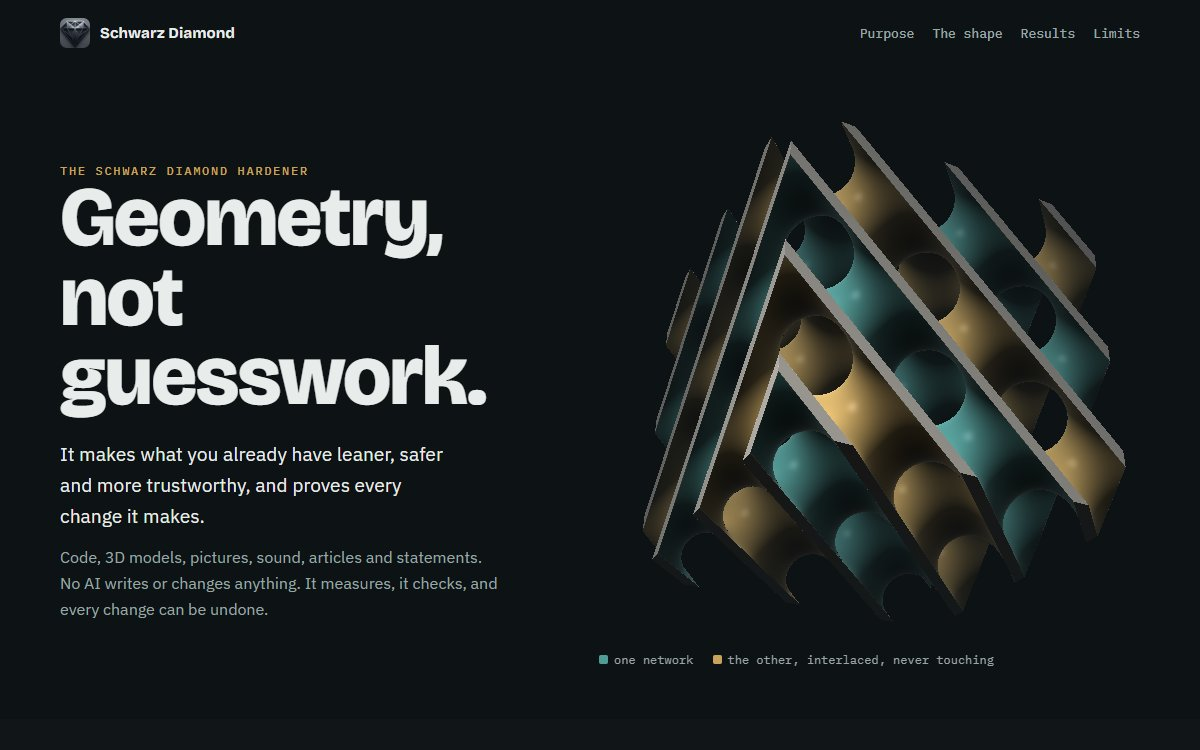
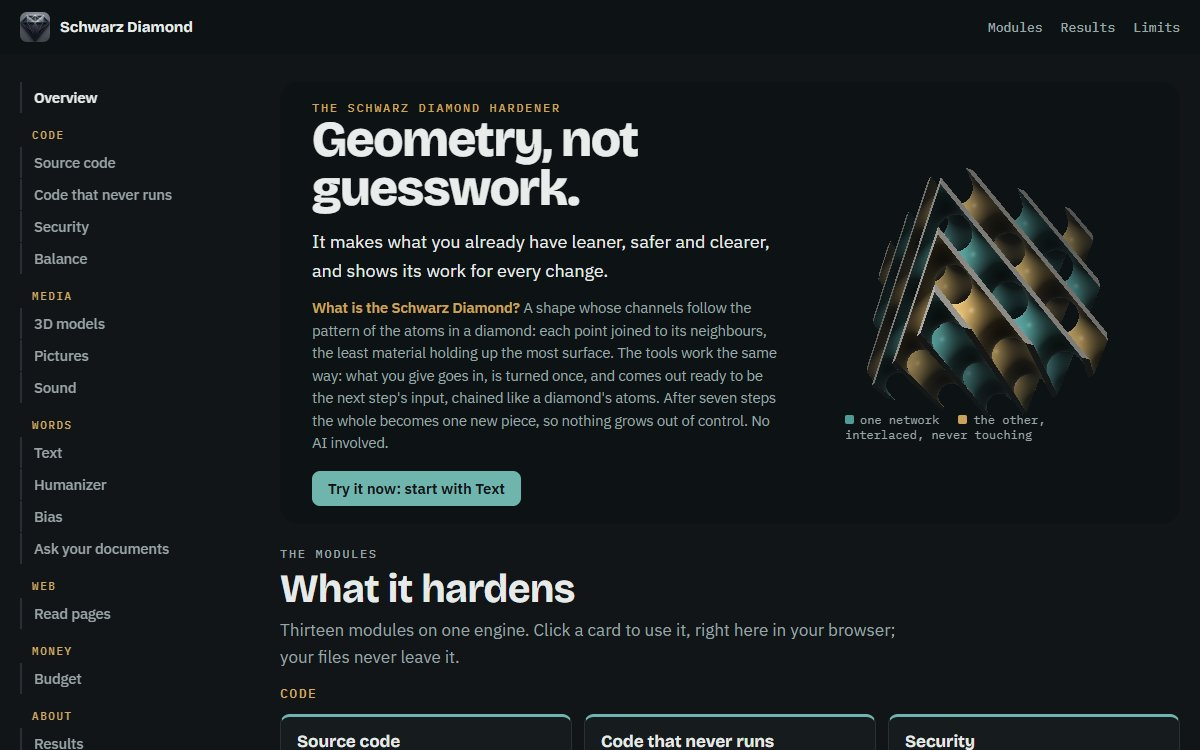
Portfolio: Schwarz Diamond case study, updated card, resume entry
A case-study page in the same shape as the others (problem, what it does, who
did what, how it was kept honest, why it matters to an employer, technologies,
what it does not claim), using only results measured this week. The front-page
card is rewritten for the working site and links to the case study; the resume
page lists the project; the sitemap includes the new page.

diff --git a/public/work/schwarzdiamond.html b/public/work/schwarzdiamond.html
@@ -1,0 +1,158 @@
+<!DOCTYPE html>
+<html lang="en">
+<head>
+<meta charset="UTF-8">
+<meta name="viewport" content="width=device-width, initial-scale=1.0">
+<title>Schwarz Diamond · AI-style tools that run by rule, in your browser · Kenneth W. Bingham</title>
+<meta name="description" content="Schwarz Diamond: thirteen tools that do AI-style work by rule instead of AI, in the visitor's own browser. Bank statement PDFs checked against the bank's own totals, a humanizer that never changes a fact, photo cleaning with pixel-identical proof. Directed by Kenneth W. Bingham, built with AI.">
+<meta name="robots" content="index, follow">
+<link rel="canonical" href="https://butterflyfx.us/work/schwarzdiamond.html">
+<link rel="icon" href="/assets/butterfly.png">
+<link rel="stylesheet" href="/site.css">
+<meta property="og:type" content="article">
+<meta property="og:url" content="https://butterflyfx.us/work/schwarzdiamond.html">
+<meta property="og:title" content="Schwarz Diamond · AI-style tools that run by rule, in your browser">
+<meta property="og:image" content="https://butterflyfx.us/img/work/schwarzdiamond.jpg">
+<meta property="og:description" content="Tools that measure and check instead of predicting: statements read to the cent, text humanized without changing a fact, nothing uploaded.">
+</head>
+<body>
+
+<header class="masthead">
+  <div class="wrap">
+    <a class="brand" href="/">Kenneth&nbsp;W.&nbsp;Bingham</a>
+    <nav>
+      <a href="/">Home</a>
+      <a href="/#work">Work</a>
+      <a href="/resume.html">Resume</a>
+      <a href="/contact.html">Contact</a>
+      <a href="https://github.com/kenbin64" rel="noopener">GitHub</a>
+    </nav>
+  </div>
+</header>
+
+<section class="hero">
+  <div class="wrap">
+    <p class="kicker">case study · tools without AI · live and free to use</p>
+    <h1>AI-style tools that measure instead of guess.</h1>
+    <p class="lede">
+      <b>Schwarz Diamond</b> is a set of thirteen tools that do the kind of work people now hand to AI: read a bank
+      statement, make AI-written text sound natural, answer questions from your documents, clean a photo before you
+      post it. They work by rule instead, run in the visitor's own browser, and show their work. I designed it and
+      made every decision; an AI wrote the code and tests to my standards.
+    </p>
+    <div class="btn-row">
+      <a class="btn" href="https://schwarzdiamond.com/" rel="noopener">Open it</a>
+      <a class="btn ghost" href="https://schwarzdiamond.com/#m-budget" rel="noopener">Try the statement reader</a>
+    </div>
+  </div>
+</section>
+
+<section>
+  <div class="wrap narrow">
+    <h2>The problem</h2>
+    <p>
+      The tools people reach for to sort out a bank statement, polish a draft or answer questions about a document
+      increasingly mean uploading the file to someone's server, and an answer that can change from one try to the
+      next. For a bank statement, a draft or a family photo, many people would rather not do either. A lot of this
+      work does not need a prediction at all: it needs careful measurement, and a check that the result is right.
+    </p>
+
+    <h2>What it does</h2>
+    <ul>
+      <li><b>Bank statements:</b> reads the PDF your bank gives you (or a CSV), finds merchants charged many times,
+          subscriptions billed twice, money in and out of advance and pay-later apps, payments returned unpaid and
+          fees, and keeps moves between your own accounts apart. It then checks what it read against the
+          statement's own printed totals, to the cent, and says so if they ever differ.</li>
+      <li><b>Humanizer:</b> takes text an AI wrote and makes it read like a person wrote it: plain words for stock
+          phrasing, empty lead-ins removed, contractions used, long sentences split. Every number, name and
+          quotation is counted before and after, and a rewrite that would change one is held back.</li>
+      <li><b>Pictures and sound:</b> removes what rides along in a file (where a photo was taken, the software,
+          comments), then decodes both versions and confirms every pixel, or every sample, is identical.</li>
+      <li><b>And more:</b> questions answered from your own documents with the source line (or "your documents do
+          not say"), coverage of one event split into sides with what all sides agree on, a code checker that proves
+          runaway patterns by timing them, and text fixes and word-for-word summaries.</li>
+    </ul>
+
+    <h2>Who did what</h2>
+    <ul>
+      <li><b>Me:</b> the concept and every decision: the design rules (input, transform, output; each part knowing only
+          its neighbours; the work built in a fixed sequence of steps), which tools to build and for whom, what each
+          one may and may not change, and the call to show results people can check rather than claim them.</li>
+      <li><b>The AI (Claude, in VS Code):</b> the code, the tests and the site, under written standards, with a plain
+          report of what it checked and what it did not.</li>
+    </ul>
+
+    <h2>How the work was kept honest</h2>
+    <ul>
+      <li><b>Tests that try to break it:</b> 95 hostile edge cases (empty input, huge files, emoji, damaged and
+          wrong-type files, malformed statements) and 6,000 randomized texts in which no number, name or quotation was
+          ever changed.</li>
+      <li><b>Testing found real bugs, and each is now guarded by a test:</b> one step took 90 seconds on a large
+          document and now takes a tenth of a second; four inputs that crashed now get plain messages.</li>
+      <li><b>Proved, not guessed:</b> the code checker times each risky pattern on longer and longer input; on patterns
+          shaped like real published advisories it flags the three that truly run away and none of the four
+          look-alikes, and it raised no false alarm on 606 files from widely used packages.</li>
+      <li><b>Real data:</b> the statement reader was tested on a real bank statement and matched its totals exactly,
+          without the statement leaving the computer or entering any repository.</li>
+      <li><b>Checkable privacy:</b> a recorded network audit shows the page sends nothing while the tools run; the site
+          invites visitors to watch their browser's network panel and see the same.</li>
+    </ul>
+
+    <h2>Why it matters to an employer</h2>
+    <ul>
+      <li><b>AI-assisted development done properly:</b> fast output from the AI, with direction, standards and checks
+          from a person.</li>
+      <li><b>Product judgment:</b> tested with real data, which exposed that the first version could not read the files
+          banks actually hand out; that changed the design.</li>
+      <li><b>Evidence over assertion:</b> results that verify themselves, honest limits, and no claims a visitor cannot
+          check.</li>
+      <li><b>Privacy by design:</b> no accounts, no uploads, no stored data; the work happens on the visitor's device.</li>
+    </ul>
+
+    <h2>Technologies and skills</h2>
+    <ul>
+      <li><b>JavaScript</b> (ES modules) shared between a desktop app and the website, packed for the browser with
+          <b>esbuild</b>; the same tested code runs in both.</li>
+      <li><b>pdf.js</b> for reading statements by position on the page; <b>Web Workers</b> for timing patterns
+          safely; an <b>abstract syntax tree</b> parser (acorn) for reading code.</li>
+      <li><b>WebGL:</b> the hero image is the Schwarz Diamond surface drawn live from its equation.</li>
+      <li><b>Cloudflare</b> hosting with a custom domain; <b>Node.js</b> test suites and headless-Chrome tests run
+          against the live site.</li>
+      <li><b>AI-assisted engineering</b> with Claude Code in VS Code, under written standards.</li>
+    </ul>
+
+    <h2>What it does not claim</h2>
+    <ul>
+      <li>It is a portfolio piece and skills demonstration, not a commercial product: free, with no ads, no cookies
+          and no sign-in.</li>
+      <li>Rules cannot write new sentences: the humanizer rewrites less freely than an AI paraphraser, and the question
+          tool can miss an answer worded differently from the question.</li>
+      <li>The statement reader has been tested on one bank's layout so far. It points out patterns; it is not
+          financial advice.</li>
+    </ul>
+
+    <div class="metrics">
+      <div class="metric"><span class="n">13</span><span class="l">tools</span></div>
+      <div class="metric"><span class="n">95</span><span class="l">hostile edge cases</span></div>
+      <div class="metric"><span class="n">6,000</span><span class="l">randomized texts, 0 facts changed</span></div>
+      <div class="metric"><span class="n">0</span><span class="l">bytes sent while tools run</span></div>
+    </div>
+  </div>
+</section>
+
+<footer class="site">
+  <div class="wrap">
+    <p>
+      <a href="/">Home</a> &middot;
+      <a href="https://schwarzdiamond.com/" rel="noopener">Open Schwarz Diamond</a> &middot;
+      <a href="/resume.html">Resume</a> &middot;
+      <a href="/contact.html">Contact</a>
+    </p>
+    <p>Concept and direction: Kenneth W. Bingham. Built with the help of Claude AI under a standing directive to be
+      skeptical, to insist on proof, and to allow no claim that is not demonstrated in tested code. The ideas are the
+      author's; the AI implemented and verified them, it did not originate them.</p>
+  </div>
+</footer>
+
+</body>
+</html>

diff --git a/public/index.html b/public/index.html
@@ -117,14 +117,14 @@
       <article class="card" style="--k: #c9a35c">
         <img src="img/work/schwarzdiamond.jpg" alt="The Schwarz Diamond site: the headline Geometry, not guesswork, beside a block cut from the Schwarz Diamond surface in teal and brass" loading="lazy" width="1200" height="750">
         <div class="card-in">
-          <small>Product &middot; no AI &middot; runs on your own computer &middot; in private development</small>
-          <h3>Hardening files without AI: the Schwarz Diamond</h3>
+          <small>Product &middot; no AI &middot; runs in your browser &middot; live and free to use</small>
+          <h3>AI-style tools that measure instead of guess</h3>
           <dl>
-            <dt>The problem</dt><dd>Tools that check or clean files with AI can be confidently wrong, and usually send the files away. Many of those jobs need a measurement, not a prediction.</dd>
-            <dt>What I built</dt><dd>A local app with one engine and modules for code, 3D models, pictures, sound, text, news bias, questions over your own documents, security and budgets. It finds what is wasted, exposed, fragile or slanted, changes only what a check proves safe, and keeps a way back for every change.</dd>
-            <dt>The proof</dt><dd>On a finished game's 147 already-compressed models, 2.0 MB proven removable, each model redrawn from 6 angles with at most 0.31% of pixels moved. Code removals tested on copies of 3 projects, their test suites unchanged (31, 28 and 10 passing). Cleaned pictures and sound decode identical, pixel for pixel and sample for sample.</dd>
+            <dt>The problem</dt><dd>Sorting out a bank statement, polishing an AI draft or questioning a document now usually means uploading it, and getting an answer that can change from one try to the next.</dd>
+            <dt>What I built</dt><dd>Thirteen tools that do that work by rule, in the visitor's own browser. It reads the PDF statement your bank gives you, makes AI-written text read naturally without changing a fact, and cleans photos with pixel-identical proof.</dd>
+            <dt>The proof</dt><dd>The statement reader's totals match the bank's own to the cent, tested on a real statement. 95 hostile edge cases and 6,000 randomized texts, with no number, name or quotation changed. Zero data sent while the tools run.</dd>
           </dl>
-          <div class="links"><a href="https://schwarzdiamond.com/">Read about it</a></div>
+          <div class="links"><a href="https://schwarzdiamond.com/">Open it</a><a href="work/schwarzdiamond.html">Read the case study</a></div>
         </div>
       </article>
       <article class="card" style="--k: #2dd4bf">

diff --git a/public/resume.html b/public/resume.html
@@ -85,6 +85,7 @@
       <div class="job"><h3>citeline<small><a href="https://github.com/kenbin64/citeline">github.com/kenbin64/citeline</a></small></h3><ul><li>Retrieval-augmented generation over federal regulations with PostgreSQL, pgvector embeddings and FastAPI: answers with a citation or abstains. 31 unit tests and a 28-case evaluation set; a live version runs on Cloudflare Workers.</li></ul></div>
       <div class="job"><h3>mcp-gateway<small><a href="https://github.com/kenbin64/mcp-gateway">github.com/kenbin64/mcp-gateway</a></small></h3><ul><li>Audited MCP server in Python and FastAPI: a closed list of read-only tools, schema-validated arguments, every call logged including refusals, and errors that cannot leak. 29 tests with ruff and mypy.</li></ul></div>
       <div class="job"><h3>Ken&#x27;s Art Gallery<small><a href="https://kensartgallery.com">kensartgallery.com</a></small></h3><ul><li>Walk-through 3D gallery of 59 works with rooms that lay themselves out, a Python image pipeline (watermark, signature, duplicate detection), code-generated audio and a Cloudflare Workers contact form.</li></ul></div>
+      <div class="job"><h3>Schwarz Diamond<small><a href="https://schwarzdiamond.com">schwarzdiamond.com</a></small></h3><ul><li>Thirteen privacy-first tools that do AI-style work by rule, in the browser, with no uploads. Bank statement PDFs are checked against the bank's own totals to the cent, and a humanizer makes AI-written text read naturally without changing a fact. Tested with 95 edge cases and 6,000 randomized texts.</li></ul></div>
       <div class="job"><h3>Cost of Saving<small><a href="https://costofsaving.com">costofsaving.com</a></small></h3><ul><li>Decision calculators on Cloudflare Workers with every formula published: 517 automated checks across 13 suites.</li></ul></div>
       <div class="job"><h3>Demystifying AI (video series)<small><a href="https://youtube.com/@kbingh">youtube.com/@kbingh</a></small></h3><ul><li>Standalone videos explaining AI from &quot;What is AI?&quot; to advanced topics, including how to spot and reduce hallucinations.</li></ul></div>
       <div class="job"><h3>Chomp! (original Android game)<small></small></h3><ul><li>Conceived, designed, programmed and animated the original Chomp!, published on Google Play, in Java with the LibGDX game engine, Photoshop and Illustrator; all artwork my own. Chomp 3D is its sequel.</li></ul></div>
